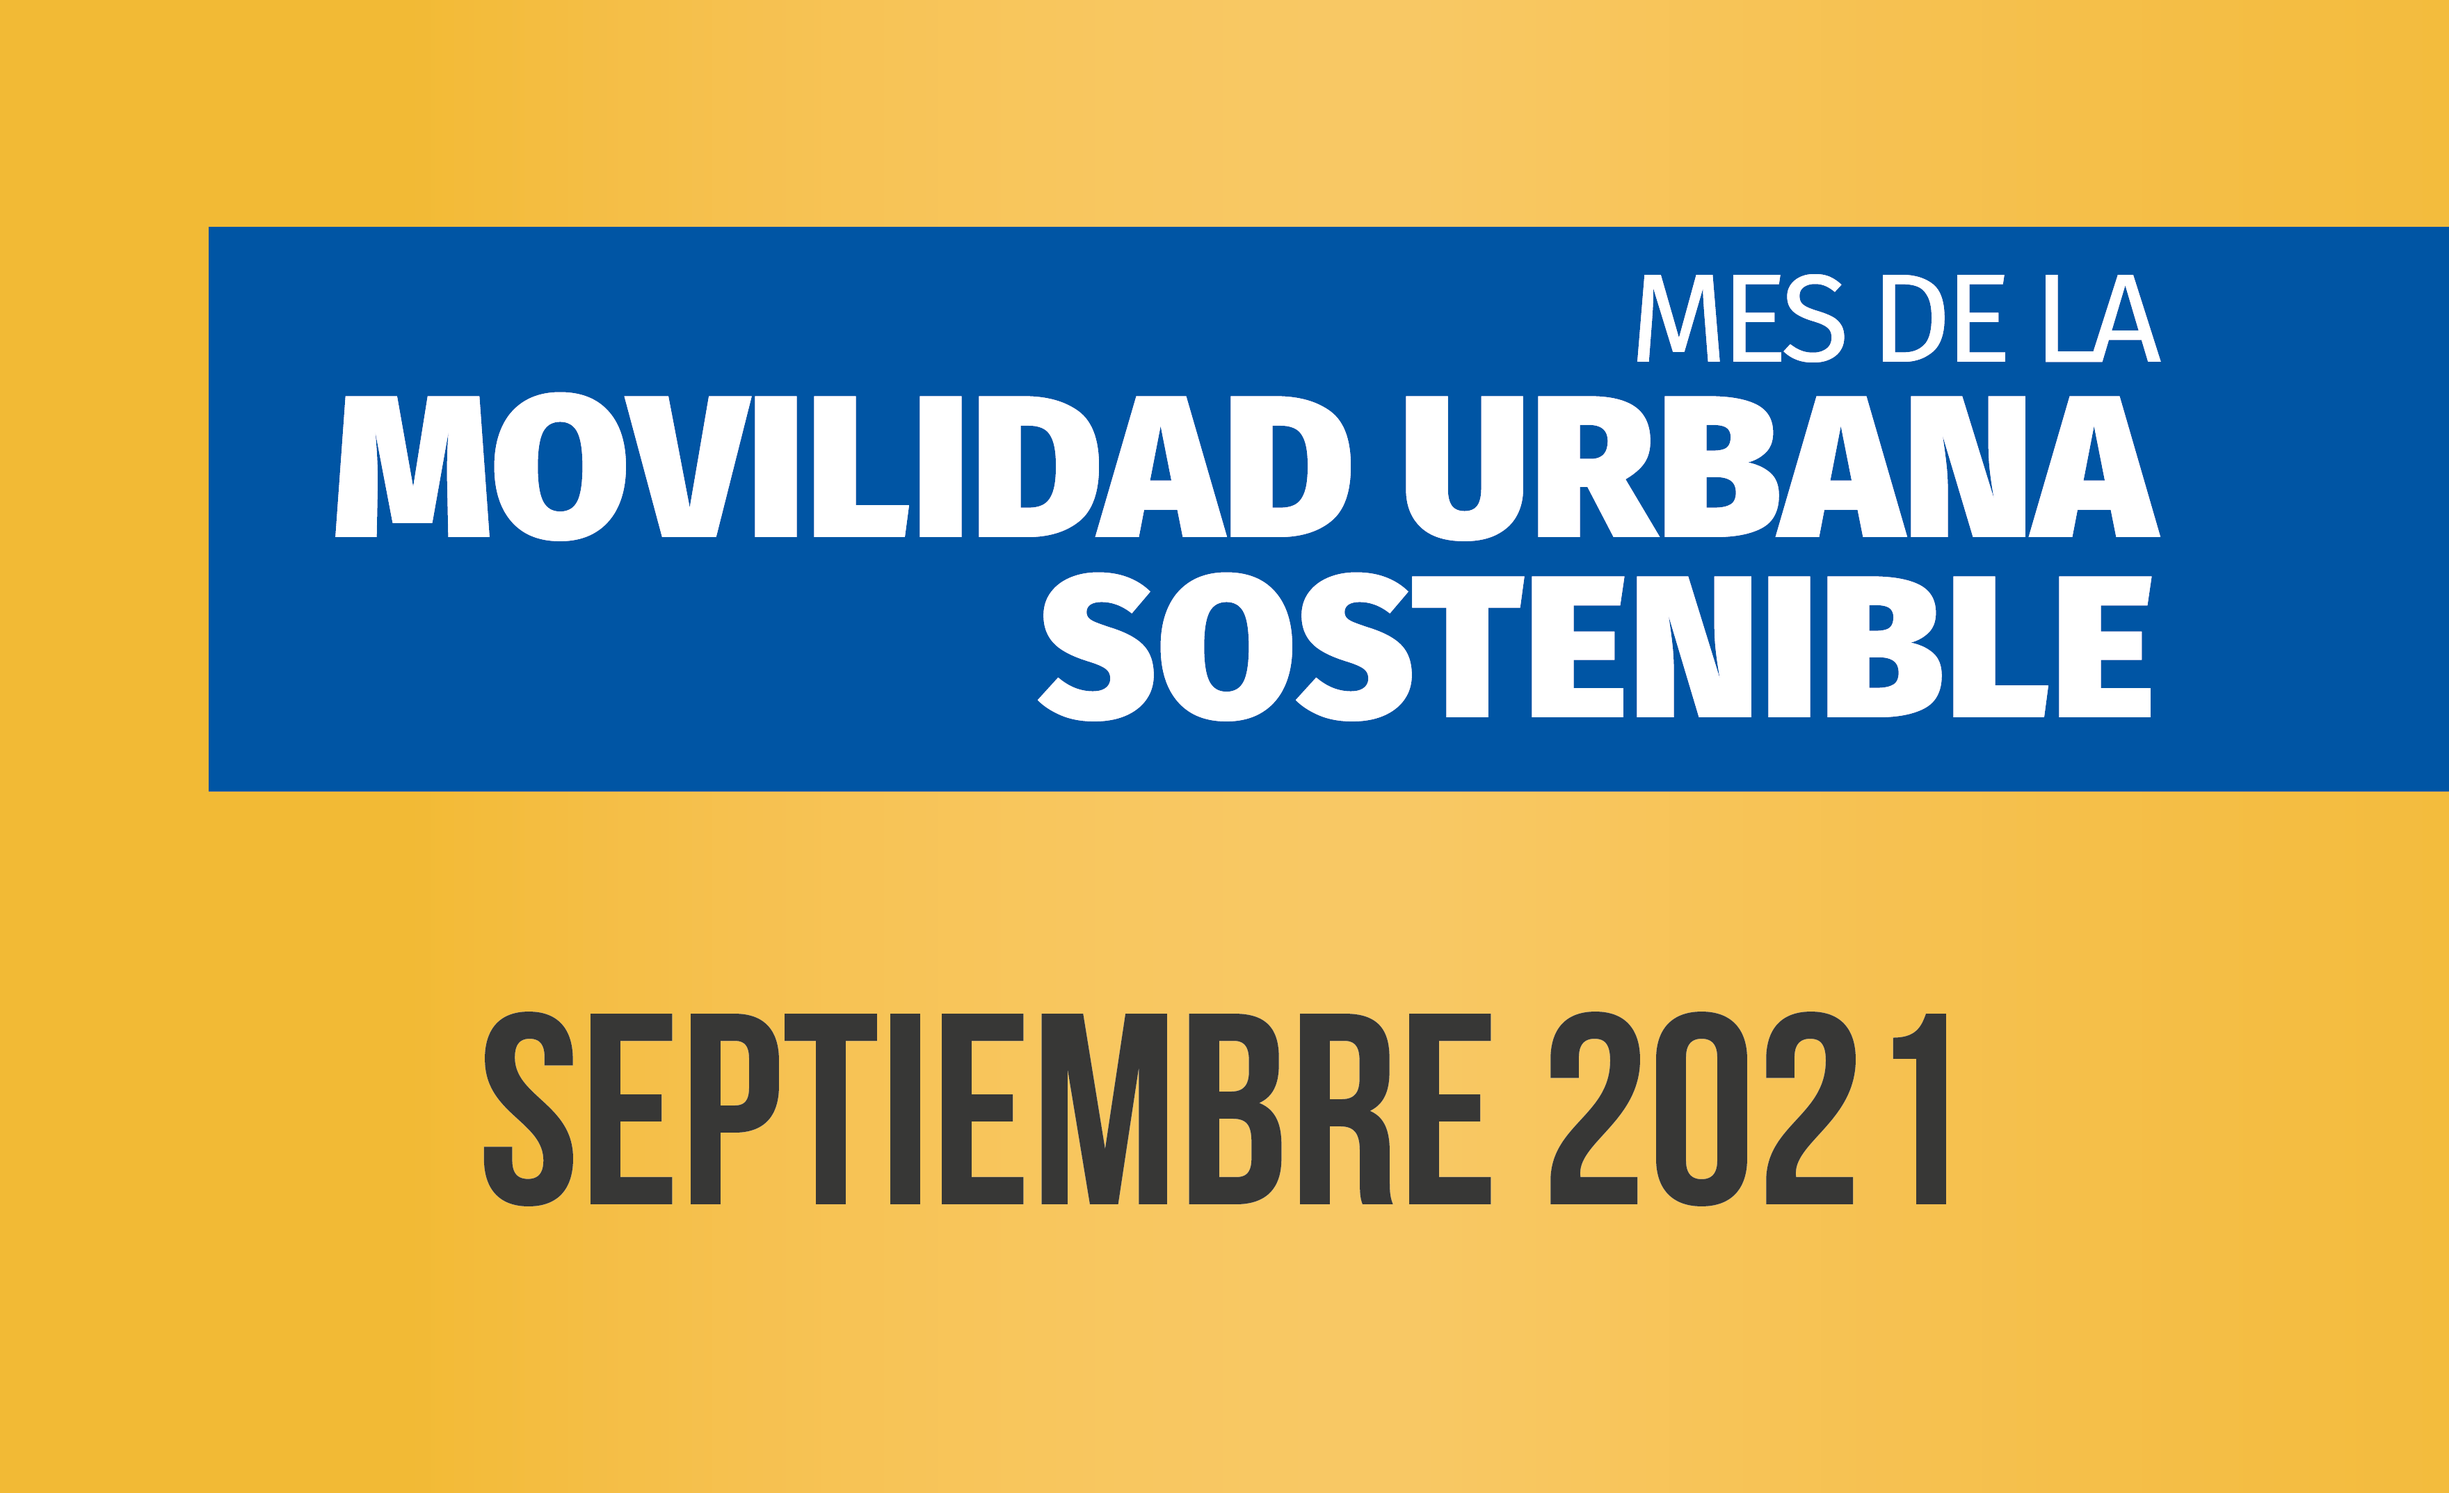
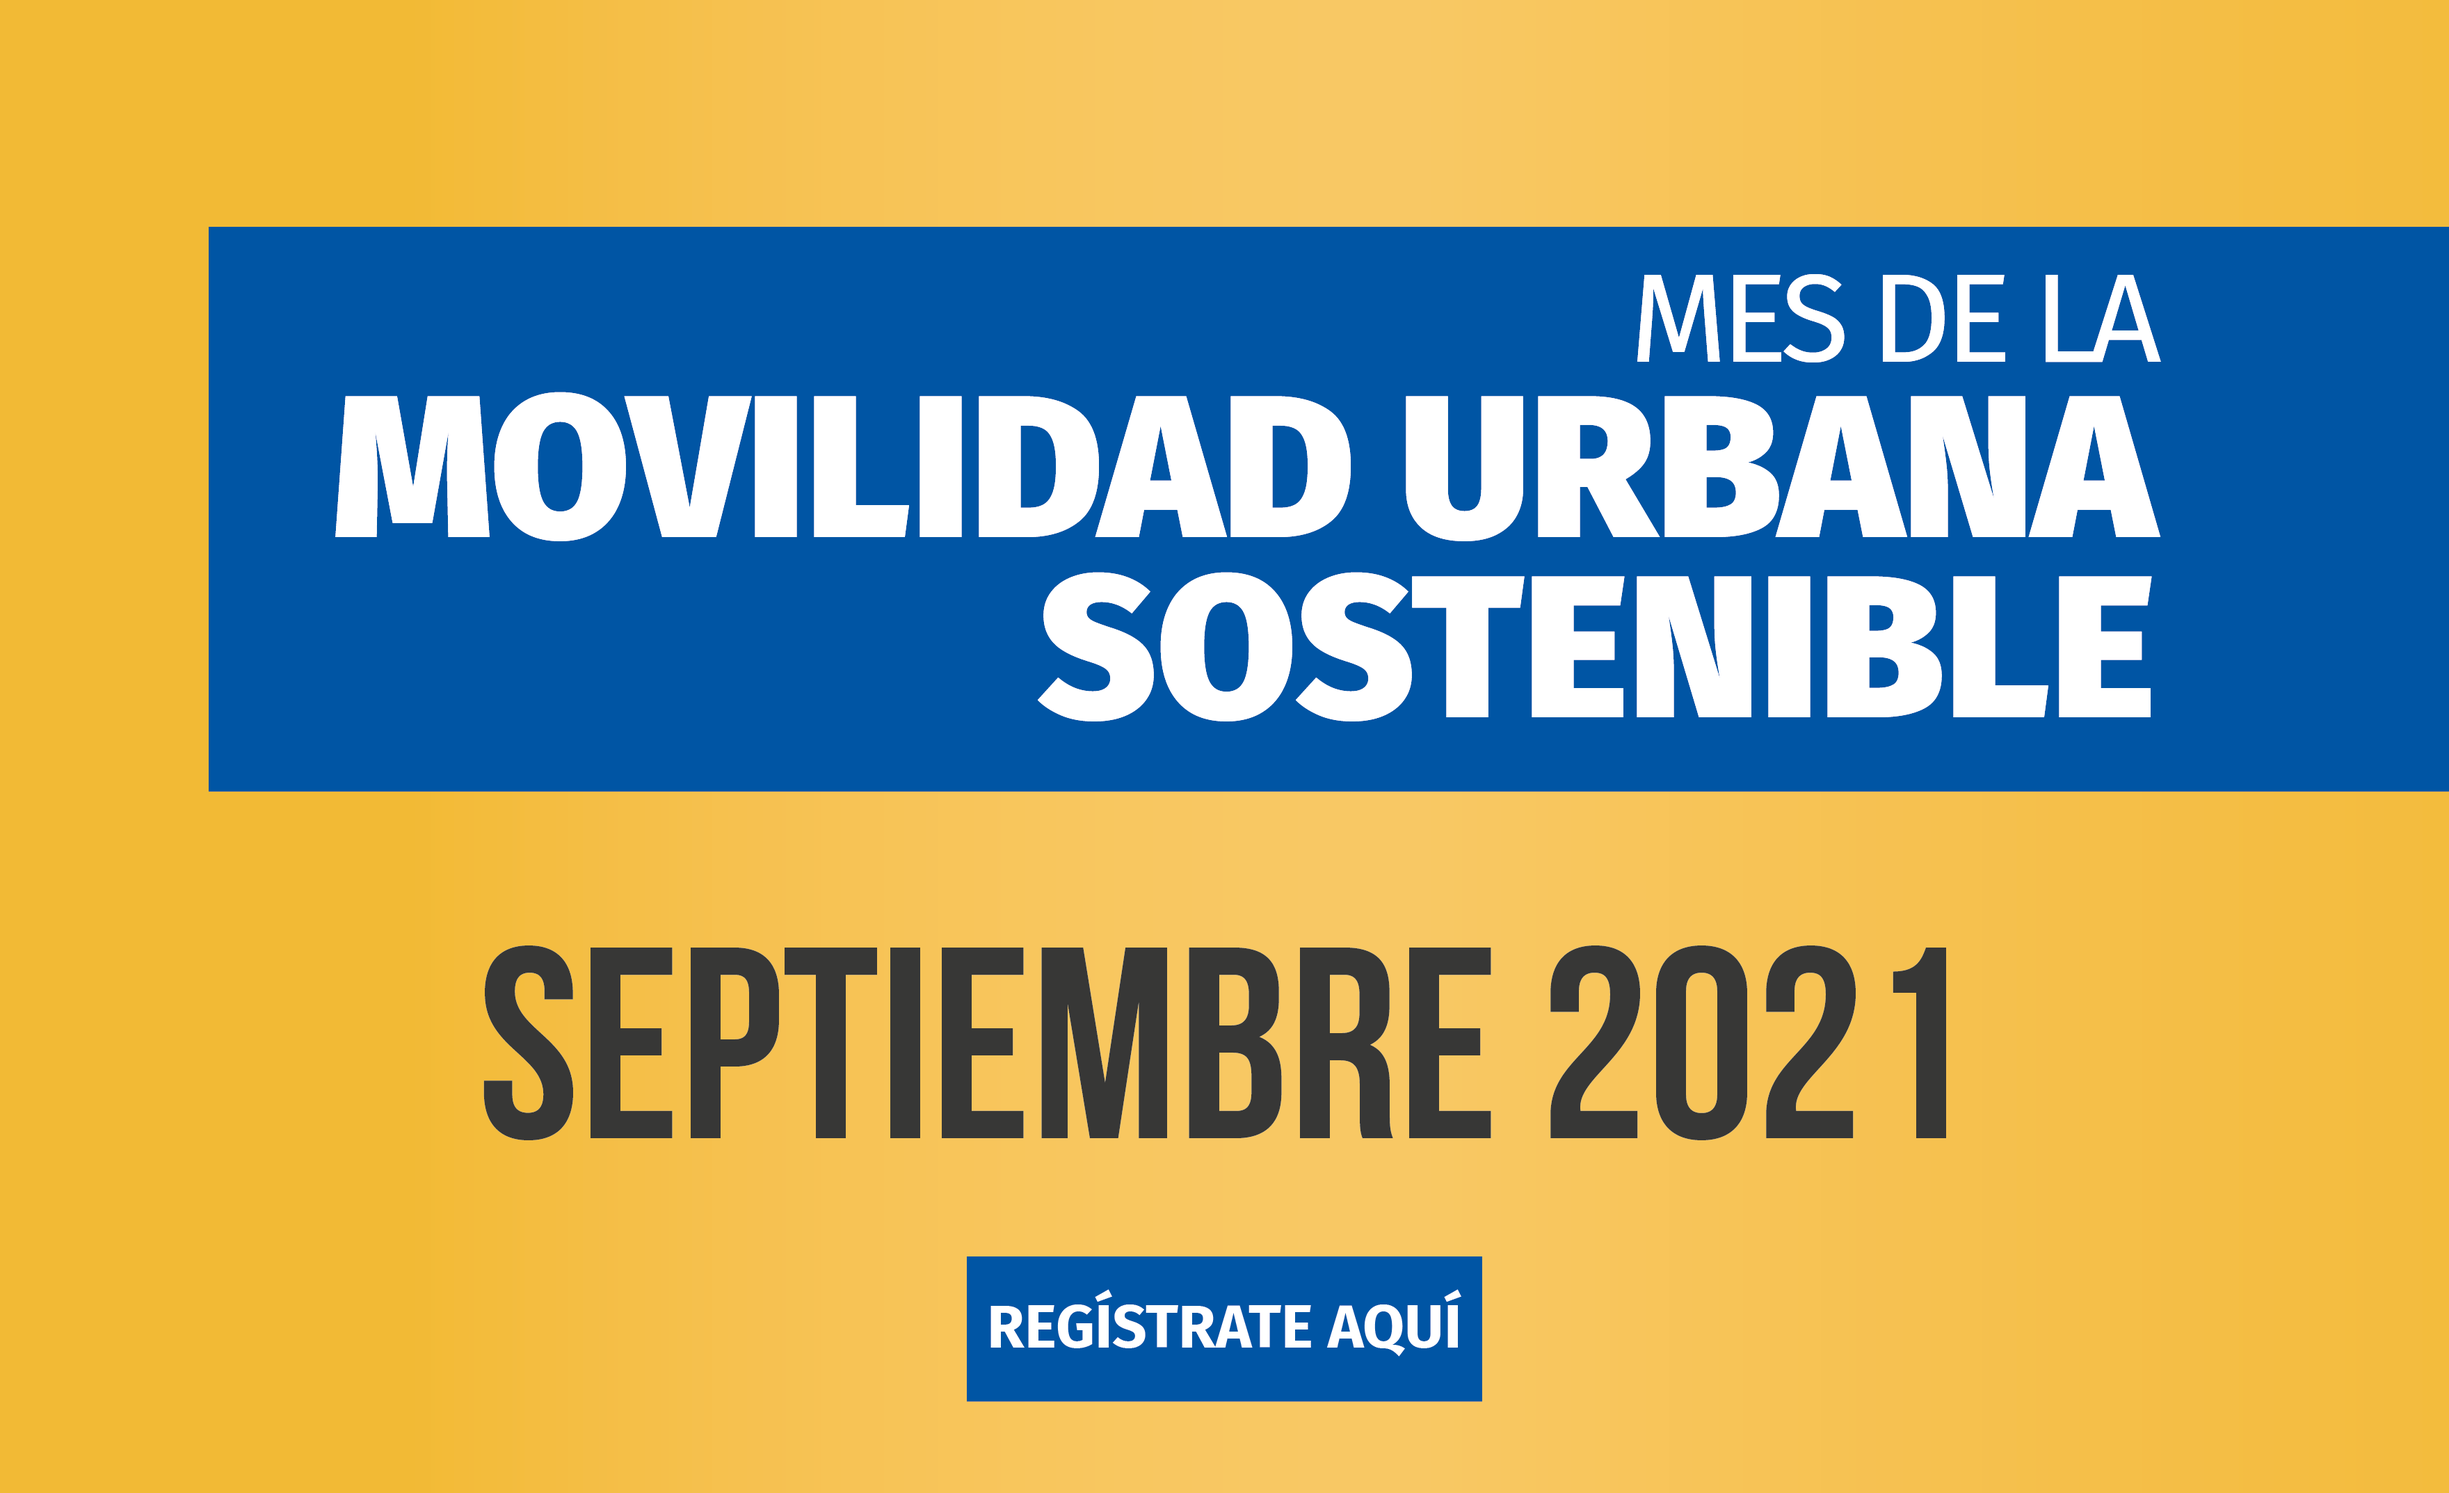
mergin trayendo cambios de master

Changed region(s): [[0.1874, 0.6244, 0.8123, 0.8117], [0.3749, 0.843, 0.6248, 0.9366]]

diff --git a/resources/views/Introduccion/vista.blade.php b/resources/views/Introduccion/vista.blade.php
@@ -239,6 +239,32 @@
       <div class="carousel-inner">
         <div class="carousel-item active">
           <div class="slide-box">
+            <a href={{route('mmus2021')}}>
+              <img src="{{ asset('storage/imagenes/mmus2021/Banner1.png')}}"  class="imgCaoursel w-100 p-0 p-0 "
+                alt="First slide">
+            </a>
+          </div>
+        </div>
+         <div class="carousel-item ">
+          <div class="slide-box">
+            <a href={{route('mmus2021')}}>
+              <img src="{{ asset('storage/imagenes/17Gemas/Banner1.png')}}"  class="imgCaoursel w-100 p-0 p-0 "
+                alt="First slide">
+            </a>
+          </div>
+        </div>
+         <div class="carousel-item ">
+          <div class="slide-box">
+            <a href={{route('mmus2021')}}>
+              <img src="{{ asset('storage/imagenes/mmus2021/Banner1Unirodada.png')}}"  class="imgCaoursel w-100 p-0 p-0 "
+                alt="First slide">
+            </a>
+          </div>
+        </div>
+      
+
+        <div class="carousel-item ">
+          <div class="slide-box">
             <a href={{route('ConsumoResponsable',['nombreModal'=> 'exampleModalCenter'])}} >
               <img src="{{ asset('storage/imagenes/introduccion/Banner-1.png')}}" class="imgCaoursel w-100 p-0 p-0 "
               alt="First slide">

diff --git a/routes/web.php b/routes/web.php
@@ -70,6 +70,9 @@ Route::get('/ConsumoResponsable/{nombreModal?}', function ($NombreM=null) {
 Route::get('/MovilidadUrbanaSostenible', function () {
     return view('mmus.contenido');
 })->name('mmus');
+Route::get('/MovilidadUrbanaSostenible2021', function () {
+    return view('mmus.contenido');
+})->name('mmus2021');
 
 Route::get('/CicloDeConferencias', function () {
     return view('Conferencias.contenido');
